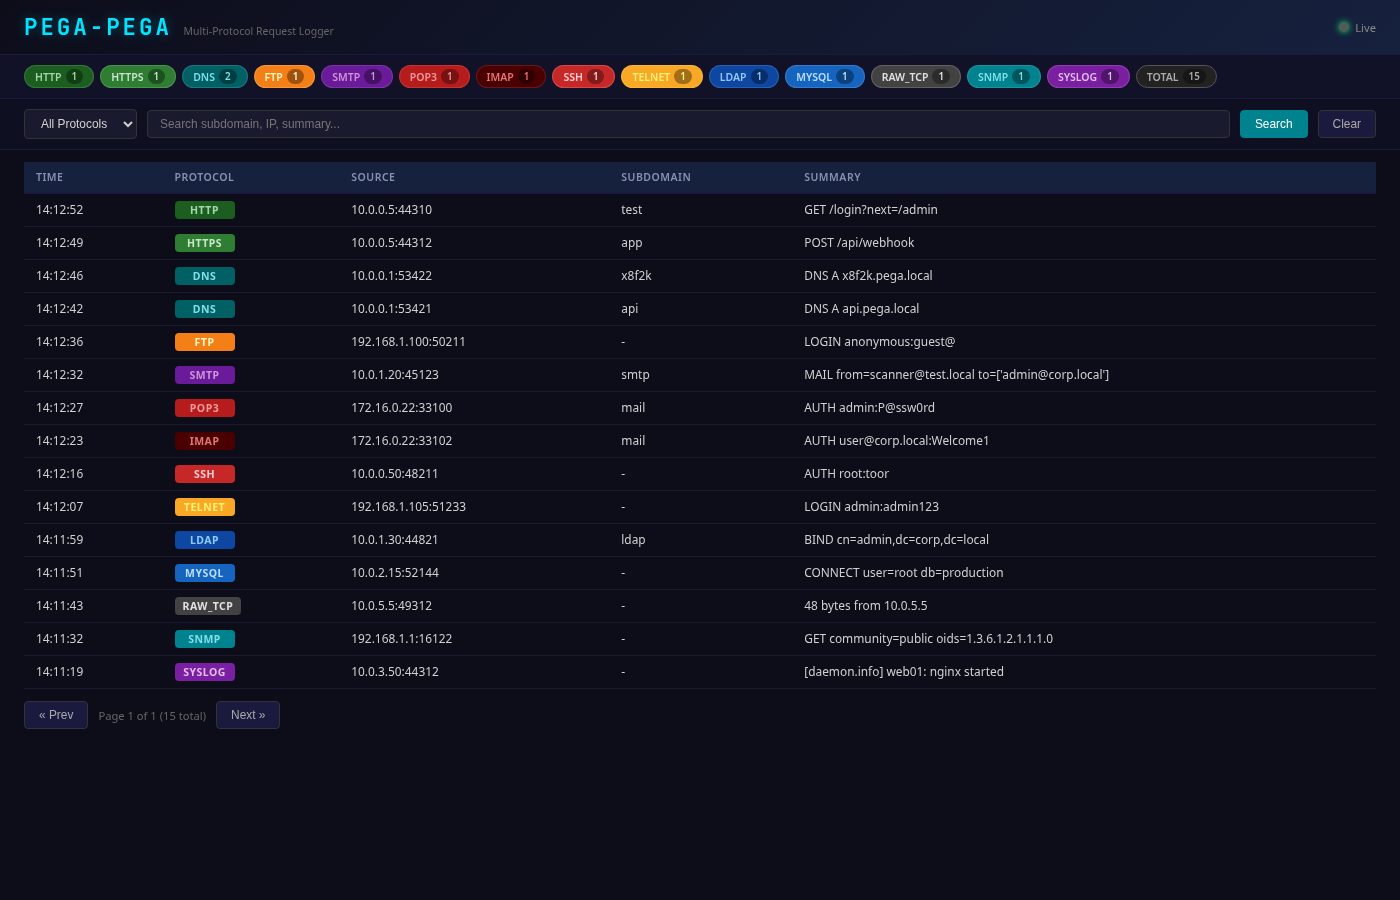
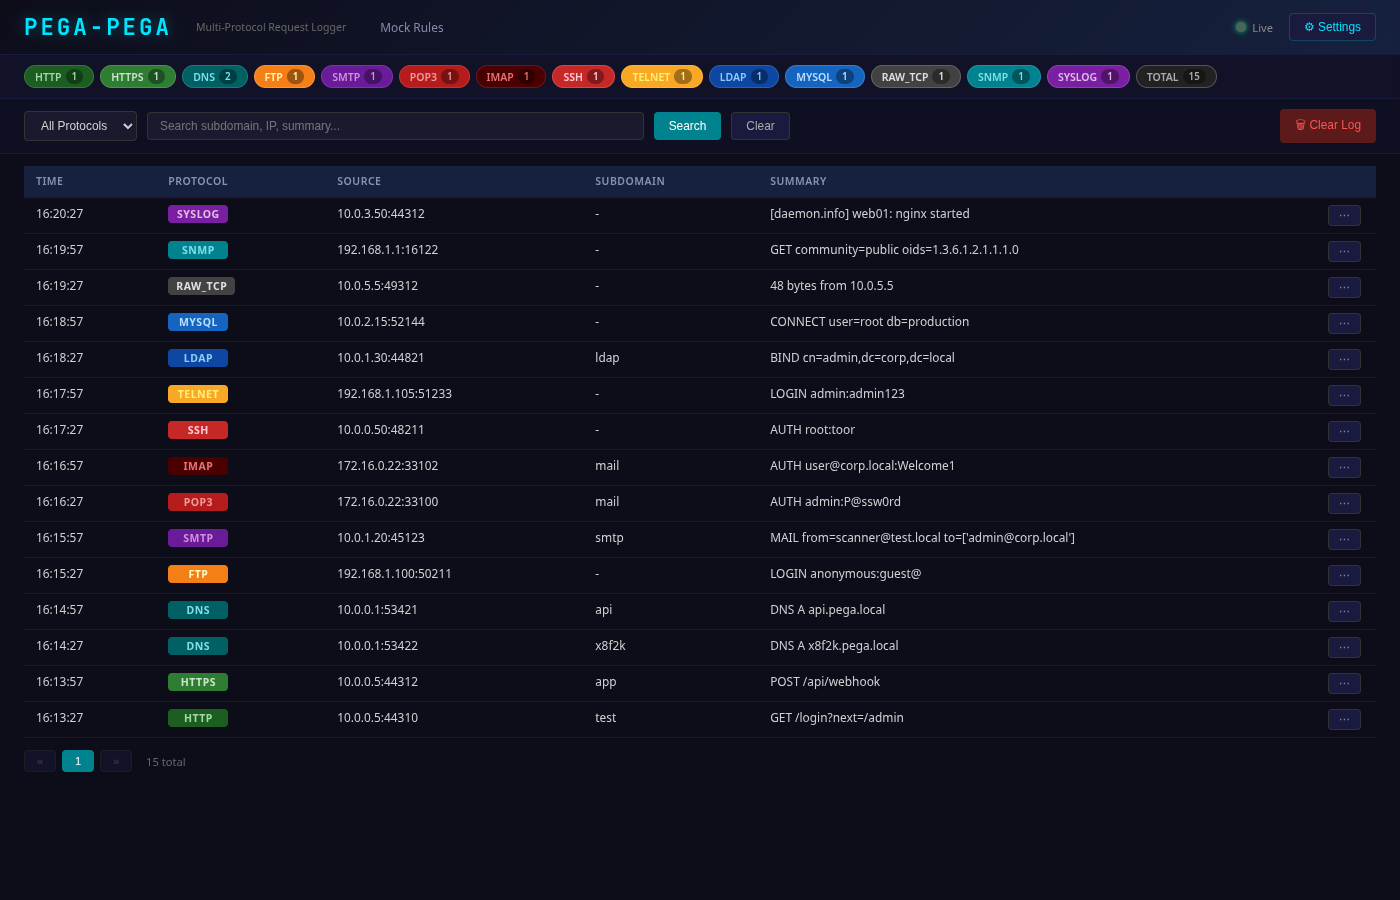
Rewrite README and update screenshots
- Concise structure: screenshots first, install options collapsed
- Fresh screenshots showing new UI (action buttons, pagination, clear log)
- Added mock rules page screenshot
- Expanded mock endpoints documentation
- Mentioned new features: IP blocking, request actions, clear log

diff --git a/README.md b/README.md
@@ -1,6 +1,6 @@
 # pega-pega
 
-Multi-protocol request logger and catcher. Think Responder meets Burp Collaborator — listens on 14 protocols, logs every incoming request, and displays them in a rich terminal UI and web dashboard.
+Multi-protocol request logger and catcher. Listens on **14 protocols**, logs every incoming request, and displays them in a web dashboard and terminal UI.
 
 ```
   ____  _____ ____    _        ____  _____ ____    _
@@ -10,22 +10,110 @@ Multi-protocol request logger and catcher. Think Responder meets Burp Collaborat
  |_|   |_____\____/_/   \_\   |_|   |_____\____/_/   \_\
 ```
 
+## Screenshots
+
+### Dashboard
+<p align="center">
+  <img src="screenshots/dashboard.png" alt="Dashboard" width="100%">
+</p>
+
+### Mock Endpoints
+<p align="center">
+  <img src="screenshots/mock.png" alt="Mock Endpoints" width="100%">
+</p>
+
+### Terminal UI
+<p align="center">
+  <img src="screenshots/cli.svg" alt="Terminal UI" width="100%">
+</p>
+
+## Install
+
+```bash
+curl -sSL https://raw.githubusercontent.com/caioluders/pega-pega/main/install.sh | sudo bash -s -- \
+  --domain yourdomain.com \
+  --ip 1.2.3.4 \
+  --letsencrypt --email admin@yourdomain.com \
+  --password s3cret
+```
+
+All flags are optional — running without arguments uses sensible defaults (domain `pega.local`, auto-detect IP, no auth).
+
+After install, point a wildcard DNS record (`*.yourdomain.com`) to your server.
+
+<details>
+<summary>Install options</summary>
+
+```
+--domain, -d DOMAIN    Base domain for subdomain tracking (default: pega.local)
+--ip, -i IP            Response IP for DNS queries (default: auto-detect)
+--dashboard PORT       Web dashboard port (default: 8443)
+--password PASS        Dashboard password (empty = no auth)
+--letsencrypt          Enable Let's Encrypt SSL via certbot
+--email, -e EMAIL      Email for Let's Encrypt
+--no-service           Don't create systemd service
+--update               Update existing installation
+--uninstall            Remove completely
+```
+</details>
+
+<details>
+<summary>Service management</summary>
+
+```bash
+journalctl -u pega-pega -f          # live logs
+systemctl restart pega-pega         # restart
+vim /etc/pega-pega/config.yaml      # edit config
+
+# update
+curl -sSL https://raw.githubusercontent.com/caioluders/pega-pega/main/install.sh | sudo bash -s -- --update
+
+# uninstall
+curl -sSL https://raw.githubusercontent.com/caioluders/pega-pega/main/install.sh | sudo bash -s -- --uninstall
+```
+</details>
+
+## Usage
+
+```bash
+sudo pega-pega                          # all protocols (needs root for ports < 1024)
+pega-pega -p http,dns,ftp               # specific protocols only
+pega-pega -d yourdomain.com -r 1.2.3.4  # custom domain and response IP
+pega-pega --no-dashboard                # disable web dashboard
+```
+
+<details>
+<summary>CLI options</summary>
+
+```
+-c, --config PATH        Path to config YAML
+-b, --bind IP            Bind address (default: 0.0.0.0)
+-d, --domain DOMAIN      Base domain for subdomain tracking
+-r, --response-ip IP     IP for DNS responses (auto-detect if not set)
+--dashboard-port PORT    Dashboard port (default: 8443)
+--db PATH                SQLite database path
+--no-dashboard           Disable web dashboard
+-p, --protocols LIST     Comma-separated protocols to enable
+-v, --verbose            Verbose logging
+```
+</details>
+
 ## Protocols
 
-| Protocol | Default Port | Extra Ports | What's captured |
-|----------|-------------|-------------|-----------------|
-| HTTP | 80 | 8080, 8888, 3000, 5000, 8000, 8081 | Method, path, headers, body, query params |
-| HTTPS | 443 | 4443, 9443 | Same as HTTP (auto-generated wildcard cert) |
+| Protocol | Port | What's captured |
+|----------|------|-----------------|
+| HTTP | 80 (+8080, 8888, 3000, 5000, 8000, 8081) | Method, path, headers, body |
+| HTTPS | 443 (+4443, 9443) | Same as HTTP (auto-generated wildcard cert) |
 | DNS | 53 | Query name, type — responds with your IP |
 | FTP | 21 | Credentials, commands |
-| SMTP | 25 | EHLO, AUTH creds, envelope, mail body |
+| SMTP | 25 | EHLO, AUTH, envelope, mail body |
 | POP3 | 110 | Login credentials |
 | IMAP | 143 | Login credentials, commands |
 | SSH | 22 | Password and pubkey auth attempts |
-| Telnet | 23 | Login credentials, raw input |
+| Telnet | 23 | Credentials, raw input |
 | LDAP | 389 | Bind DN/credentials, search queries |
 | MySQL | 3306 | Username, database, auth data |
-| Raw TCP | 9999 | Hex dump of anything |
+| Raw TCP | 9999 | Hex dump of raw bytes |
 | SNMP | 161 | Community strings, OIDs |
 | Syslog | 514 | Facility, severity, message |
 
@@ -33,159 +121,40 @@ All handlers return **realistic responses** to encourage clients to send full pa
 
 ## Features
 
-- **Subdomain tracking** — DNS responds with your IP for all queries, HTTP extracts subdomain from Host header
-- **Rich terminal UI** — color-coded live table with protocol tags
-- **Web dashboard** — real-time updates via WebSocket, filtering, search, hex viewer (port 8443)
-- **Mock HTTP endpoints** — define custom path/method rules with configurable responses (like Beeceptor), accessible at `/mock`
-- **Dashboard authentication** — optional password protection for the web interface
-- **Let's Encrypt SSL** — automatic certificate provisioning via certbot
-- **SQLite persistence** — all captured requests stored and queryable
+- **Web dashboard** — real-time updates via WebSocket, protocol filtering, search, hex viewer
+- **Request actions** — per-request menu to block IP or delete individual entries, plus bulk clear
+- **IP blocking** — blocked IPs are filtered from all views, counts, and stats
+- **Subdomain tracking** — DNS resolves all subdomains to your IP, HTTP extracts subdomain from Host header
+- **Dashboard auth** — optional password protection
+- **Let's Encrypt** — automatic SSL certificates via certbot
+- **SQLite persistence** — all requests stored and queryable
 - **Configurable** — YAML config to enable/disable protocols, remap ports, set bind addresses
-
-## Screenshots
-
-### Terminal UI
-
-<p align="center">
-  <img src="screenshots/cli.svg" alt="Terminal UI" width="100%">
-</p>
-
-### Web Dashboard
-
-<p align="center">
-  <img src="screenshots/dashboard.png" alt="Web Dashboard" width="100%">
-</p>
-
-## Quick install (on a server)
-
-```bash
-curl -sSL https://raw.githubusercontent.com/caioluders/pega-pega/main/install.sh | sudo bash
-```
-
-With options:
-
-```bash
-curl -sSL https://raw.githubusercontent.com/caioluders/pega-pega/main/install.sh | sudo bash -s -- \
-  --domain yourdomain.com \
-  --ip 1.2.3.4
-```
-
-With Let's Encrypt SSL and dashboard password:
-
-```bash
-curl -sSL https://raw.githubusercontent.com/caioluders/pega-pega/main/install.sh | sudo bash -s -- \
-  --domain yourdomain.com \
-  --ip 1.2.3.4 \
-  --letsencrypt \
-  --email admin@yourdomain.com \
-  --password s3cret
-```
-
-This clones the repo, installs into `/opt/pega-pega`, creates a systemd service, and starts it. Dashboard will be at `http://server:8443`.
-
-### Install options
-
-```
-  --domain, -d DOMAIN    Base domain for subdomain tracking (default: pega.local)
-  --ip, -i IP            IP to return in DNS responses (default: auto-detect)
-  --dashboard PORT       Web dashboard port (default: 8443)
-  --password PASS        Set dashboard password (empty = no auth)
-  --letsencrypt          Install certbot and enable Let's Encrypt SSL
-  --email, -e EMAIL      Email for Let's Encrypt registration
-  --no-service           Install only, don't create systemd service
-  --update               Update existing installation from GitHub
-  --uninstall            Remove pega-pega completely
-```
-
-### After installing
-
-Point your domain's DNS to the server:
-- Set a wildcard A record: `*.yourdomain.com → server_ip`
-- Or set an NS record so pega-pega handles DNS directly
-
-Manage the service:
-```bash
-journalctl -u pega-pega -f          # live logs
-systemctl restart pega-pega         # restart
-vim /etc/pega-pega/config.yaml      # edit config
-```
-
-Update to latest version:
-```bash
-curl -sSL https://raw.githubusercontent.com/caioluders/pega-pega/main/install.sh | sudo bash -s -- --update
-```
-
-Uninstall:
-```bash
-curl -sSL https://raw.githubusercontent.com/caioluders/pega-pega/main/install.sh | sudo bash -s -- --uninstall
-```
-
-## Local development
-
-```bash
-git clone https://github.com/caioluders/pega-pega.git
-cd pega-pega
-python3 -m venv .venv
-source .venv/bin/activate
-pip install -e .
-sudo pega-pega
-```
-
-## Usage
-
-```bash
-# Run all protocols (needs root for ports < 1024)
-sudo pega-pega
-
-# Run specific protocols
-pega-pega -p http,dns,ftp
-
-# Custom domain and response IP
-pega-pega -d yourdomain.com -r 1.2.3.4
-
-# Custom config file
-pega-pega -c config.default.yaml
-
-# Disable web dashboard
-pega-pega --no-dashboard
-```
-
-### CLI options
-
-```
-  -c, --config PATH        Path to config YAML file
-  -b, --bind IP            IP to bind all listeners (default: 0.0.0.0)
-  -d, --domain DOMAIN      Base domain for subdomain tracking
-  -r, --response-ip IP     IP to return in DNS responses (auto-detect if not set)
-  --dashboard-port PORT    Web dashboard port (default: 8443)
-  --db PATH                SQLite database path
-  --no-dashboard           Disable web dashboard
-  -p, --protocols LIST     Comma-separated list of protocols to enable
-  -v, --verbose            Verbose logging
-```
 
 ## Mock HTTP Endpoints
 
-Access the mock rules page at `/mock` on the dashboard. Create rules to return custom HTTP responses:
+Define custom HTTP responses at `/mock` on the dashboard. Requests matching a mock rule get your configured response; they're still captured in the main log.
 
-- **Path matching** — exact paths (`/api/users`) or wildcard patterns (`/api/users/:id`, `/static/*`)
-- **Method filtering** — match specific HTTP methods (GET, POST, etc.) or ANY
-- **Custom responses** — set status code, body, Content-Type, and extra headers per rule
-- **Priority ordering** — rules evaluated top-down, first match wins. Drag to reorder in the UI
-- **Enable/disable** — toggle rules on/off without deleting
+**Path patterns:**
+- Exact: `/api/users`, `/health`
+- Param wildcard: `/api/users/:id` — matches any single segment (`/api/users/123`)
+- Star wildcard: `/static/*` — matches anything after prefix
 
-Requests matching mock rules are still captured in the main dashboard.
+**Method matching:** filter by GET, POST, PUT, DELETE, PATCH — or use ANY to match all methods.
+
+**Custom responses:** set status code (200, 404, 500...), response body, Content-Type, and arbitrary headers per rule.
+
+**Priority:** rules are evaluated top-down — first match wins. Drag to reorder in the UI. Rules can be toggled on/off without deleting.
 
 ## Configuration
 
-See [`config.default.yaml`](config.default.yaml) for all options. Key settings:
+See [`config.default.yaml`](config.default.yaml) for all options.
 
 ```yaml
 bind_ip: "0.0.0.0"
-domain: "yourdomain.com"     # base domain for subdomain tracking
-response_ip: ""              # IP for DNS responses (auto-detect if empty)
+domain: "yourdomain.com"
+response_ip: ""              # auto-detect if empty
 dashboard_port: 8443
-dashboard_password: ""       # empty = no auth; set to protect the dashboard
+dashboard_password: ""       # empty = no auth
 db_path: "pega_pega.db"
 
 protocols:
@@ -193,35 +162,36 @@ protocols:
     enabled: true
     port: 80
     extra_ports: [8080, 8888, 3000, 5000, 8000, 8081]
-  https:
-    enabled: true
-    port: 443
-    extra_ports: [4443, 9443]
-  dns:
-    enabled: true
-    port: 53
-  # ... see config.default.yaml for all 14 protocols
+  # ... 14 protocols total — see config.default.yaml
+```
+
+## Development
+
+```bash
+git clone https://github.com/caioluders/pega-pega.git
+cd pega-pega
+pip install -e .
+sudo pega-pega
 ```
 
 ## Architecture
 
 ```
 pega_pega/
-├── models.py            # CapturedRequest, MockRule dataclasses, Protocol enum
+├── models.py            # CapturedRequest, MockRule, Protocol enum
 ├── bus.py               # Async fan-out event bus
-├── store.py             # SQLite persistence (requests + mock rules)
-├── mock.py              # Mock rule matcher (path/method pattern matching)
+├── store.py             # SQLite persistence + blocked IPs
+├── mock.py              # Mock rule matcher (path/method patterns → regex)
 ├── display.py           # Rich terminal live table
 ├── server.py            # Main orchestrator
 ├── cli.py               # Click CLI
+├── config.py            # YAML config loading
 ├── certs.py             # Self-signed certificate generation
 ├── letsencrypt.py       # Let's Encrypt / certbot integration
-├── config.py            # YAML config loading
 ├── protocols/           # 14 protocol handlers
 │   ├── base.py          # BaseProtocolHandler ABC
 │   ├── http_handler.py
 │   ├── dns_handler.py
-│   ├── ssh_handler.py
 │   └── ...
 ├── dashboard/           # FastAPI web dashboard
 │   ├── app.py
